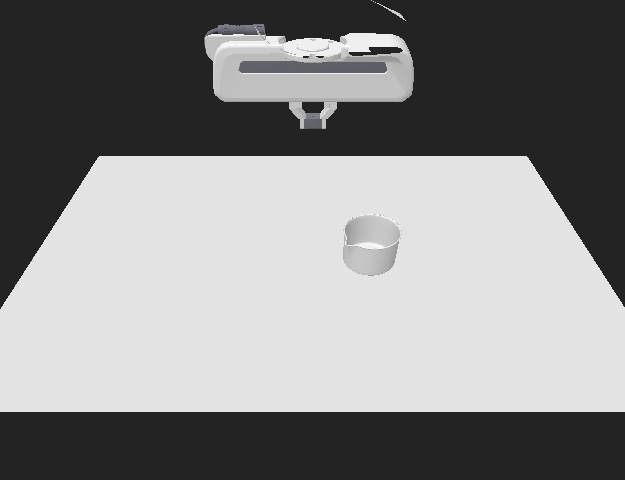
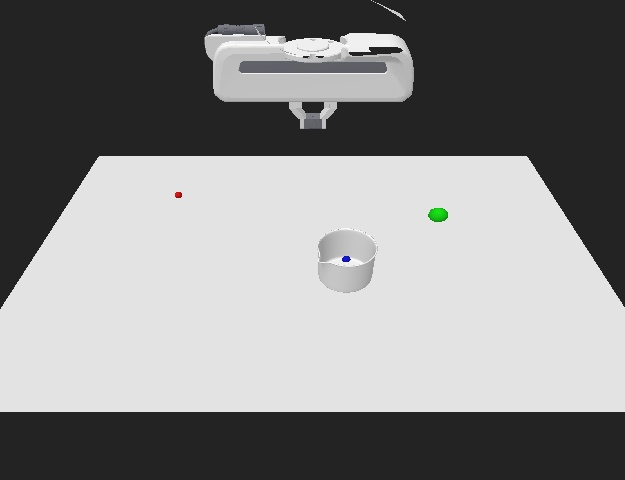
final

Changed region(s): [[0.4864, 0.4375, 0.6384, 0.625], [0.6688, 0.4375, 0.7296, 0.4688]]

diff --git a/Interface.py b/Interface.py
@@ -212,76 +212,108 @@ def manual_control():
     except Exception as e:
         print(f"Error in manual_control: {e}")  
 
-def setup_training_screen(vision: bool = True):
+def setup_training_screen(vision: bool = True, model: str = "", model_loaded=False):
     """
     Setup the screen for training
     vision: bool = True (Set to False to train without FastSAM Observations)
+    subgoal: str (Which subgoal to achieve)
     """
-    def update_screen(timesteps: int, vision: bool):
+    def update_screen(timesteps: int, vision: bool, subgoal: str = "above", model: str = "", model_loaded=False):
         """
         Clears the screen to a loading screen while it trains. Training happens on a separate thread.
         """
         for widget in root.winfo_children():
             widget.destroy()
 
+        
+
         label = tk.Label(root, text="Training...")
         label.pack(pady=10)
 
-        Thread(target=lambda: train(timesteps=timesteps, vision=vision), daemon=True).start()
+        Thread(target=lambda: train(timesteps=timesteps, vision=vision, subgoal=subgoal, model=model, model_loaded=model_loaded), daemon=True).start()
 
         back_button = tk.Button(root, text="Back to Main Menu", command=lambda: setup_initial_screen(restart=True))
         back_button.pack(pady=10)
 
     # def train
+    def timesteps(vision:bool, subgoal:str, model: str = "", model_loaded: bool = False):
+        for widget in root.winfo_children():
+            widget.destroy()
 
+        label = tk.Label(root, text= "Input the number of timesteps to train for:")
+        label.pack(pady=10)
+
+        entry = tk.Entry(root)
+        entry.pack(pady=10)
+
+        submit_button = tk.Button(root, text="Submit", command=lambda: update_screen(timesteps=int(entry.get()), vision=vision, subgoal=subgoal, model=model, model_loaded=model_loaded))
+
+        submit_button.pack(pady=10)
+    
     for widget in root.winfo_children():
         widget.destroy()
 
-    label = tk.Label(root, text= "Input the number of timesteps to train for:")
-    label.pack(pady=10)
+    label = tk.Label(root, text="Choose a subgoal to train for:")
+    label.pack(pady=10, padx=10)
 
-    entry = tk.Entry(root)
-    entry.pack(pady=10)
+    above_button = tk.Button(root, text="Reach above the beaker", command=lambda: timesteps(vision=vision, subgoal="above", model=model, model_loaded=model_loaded))
+    above_button.pack(pady=10)
 
-    submit_button = tk.Button(root, text="Submit", command=lambda: update_screen(timesteps=int(entry.get()), vision=vision))
-    submit_button.pack(pady=10)
+    pregrab_button = tk.Button(root, text="Prepare to grab the beaker", command=lambda: timesteps(vision=vision, subgoal="pregrab", model=model, model_loaded=model_loaded))
+    pregrab_button.pack(pady=10)
 
-def train(timesteps: int, vision: bool, subgoal):
+    grab_button = tk.Button(root, text="Grab the beaker", command=lambda: timesteps(vision=vision, subgoal="grab", model=model, model_loaded=model_loaded))
+    grab_button.pack(pady=10)
+
+    lift_button = tk.Button(root, text="Lift the beaker to goal", command=lambda: timesteps(vision=vision, subgoal="lift", model=model, model_loaded=model_loaded))
+    lift_button.pack(pady=10)
+
+    back_button = tk.Button(root, text="Back to Main Menu", command=lambda: setup_initial_screen(restart=True))
+    back_button.pack(pady=10)
+
+def train(timesteps: int, vision: bool, subgoal: str, model_loaded: bool = False, model: str = ""):
     """
     Trains a DDPG model on the Custom Beaker Grab environment.
     """
 
-    env = gym.make('PandaPickAndPlace-v3', render_mode="human", vision=vision, current_subgoal=subgoal)
+    env = gym.make('PandaPickAndPlace-v3', render_mode="human", vision=vision, current_subgoal=subgoal) 
+    # env = gym.make('PandaReach-v3', render_mode="human")
 
     env = make_vec_env(lambda: env, n_envs=1)
 
     n_actions = env.action_space.shape[-1]
-    action_noise = NormalActionNoise(mean=np.zeros(n_actions), sigma=0.85 * np.ones(n_actions))
+    action_noise = NormalActionNoise(mean=np.zeros(n_actions), sigma=1 * np.ones(n_actions))
 
-    if vision:
-        # Create the DDPG model
-        model = DDPG("MultiInputPolicy", 
-                env, 
-                action_noise=action_noise, 
-                replay_buffer_class=HerReplayBuffer,
-                verbose=1, 
-                batch_size=32,
-                buffer_size=7_000, 
-                learning_rate=0.001, 
-                tensorboard_log=log_dir
-                )
+    if model_loaded == False:
+        if vision:
+            # Create the DDPG model
+            model = DDPG("MultiInputPolicy", 
+                    env, 
+                    action_noise=action_noise, 
+                    replay_buffer_class=HerReplayBuffer,
+                    verbose=1, 
+                    batch_size=32,
+                    buffer_size=7_000, 
+                    learning_rate=0.001, 
+                    tensorboard_log=log_dir
+                    )
+        else:
+            model = DDPG("MultiInputPolicy", 
+                    env, 
+                    action_noise=action_noise, 
+                    replay_buffer_class=HerReplayBuffer,
+                    verbose=1, 
+                    batch_size= 1024,
+                    buffer_size=100_000, 
+                    learning_rate=0.001, 
+                    tensorboard_log=log_dir
+                    )
     else:
-        model = DDPG("MultiInputPolicy", 
-                env, 
-                action_noise=action_noise, 
-                replay_buffer_class=HerReplayBuffer,
-                verbose=1, 
-                batch_size= 512,
-                buffer_size=50_000, 
-                learning_rate=0.001, 
-                tensorboard_log=log_dir
-                )
-    
+        model_name = model
+        print("models/"+model)
+        model = DDPG.load("models/"+model, env=env)
+        print("Loaded", model_name)
+        
     load_tensorboard()
 
     model.learn(total_timesteps=timesteps)
@@ -386,17 +418,39 @@ def chosen_model(model):
     """
     for widget in root.winfo_children():
         widget.destroy()
+    
+    label = tk.Label(root, text="Would you like to test this model or train it?")
+    label.pack(padx=10, pady=10)
 
-    episodes_label = tk.Label(root, text="Input number of episodes to test:")
-    episodes_label.pack(pady=10)
+    test_button = tk.Button(root, text="Test", command=lambda: test_screen(model))
+    test_button.pack(pady=10)
 
-    entry = tk.Entry(root)
-    entry.pack(pady=10)
+    train_button = tk.Button(root, text="Train", command=lambda: check_if_vision(model))
+    train_button.pack(pady=10)
 
-    submit_button = tk.Button(root, text="Submit", command=lambda: test(int(entry.get()), model))
-    submit_button.pack(pady=10)
+    def check_if_vision(model):
+        for widget in root.winfo_children():
+            widget.destroy()
 
-    print(command_queue)
+        vision_button = tk.Button(root, text="With Vision", command=lambda: setup_training_screen(vision=True, model=model, model_loaded=True))
+        vision_button.pack(pady=10)
+
+        non_vision_button = tk.Button(root, text="Without Vision", command=lambda: setup_training_screen(vision=False, model=model, model_loaded=True))
+        non_vision_button.pack(pady=10, padx=10)
+
+
+    def test_screen(model):
+        for widget in root.winfo_children():
+            widget.destroy()
+
+        episodes_label = tk.Label(root, text="Input number of episodes to test:")
+        episodes_label.pack(pady=10)
+
+        entry = tk.Entry(root)
+        entry.pack(pady=10)
+
+        submit_button = tk.Button(root, text="Submit", command=lambda: test(int(entry.get()), model))
+        submit_button.pack(pady=10)
 
     def test(episodes, model):
         """
@@ -481,7 +535,7 @@ def load_tensorboard(port=6006):
         tb = program.TensorBoard()
         tb.configure(argv=[None, '--logdir', log_dir, '--port', str(port)])
         url = tb.launch()
-    webbrowser.open(url, new=0)
+    # webbrowser.open(url, new=0)
 
 # Main Loop
 command_queue = queue.Queue()

diff --git a/visual_robot_project.py b/visual_robot_project.py
@@ -22,11 +22,9 @@ from sb3_contrib.common.wrappers import TimeFeatureWrapper
 from stable_baselines3.common.env_util import make_vec_env
 from stable_baselines3.common.evaluation import evaluate_policy
 
-from Camera_Environment import CameraBeakerEnv
-
 
 ### Uncomment the following to switch to the built-in panda reach environment.
-env = gym.make('PandaPickAndPlace-v3', render_mode="human")
+env = gym.make('PandaPickAndPlace-v3', render_mode="human", vision=False, current_subgoal="grab")
 # env = CameraBeakerEnv(render_mode="human")
 
 model_path_1 = "./trained_models/trained_reach.zip"
@@ -37,23 +35,34 @@ model_path = model_path_1
 log_dir = "./logs/"
 os.makedirs(log_dir, exist_ok=True)
 
-env = make_vec_env(lambda: env, n_envs=1)
+# env = make_vec_env(lambda: env, n_envs=1)
 
 n_actions = env.action_space.shape[-1]
-action_noise = NormalActionNoise(mean=np.zeros(n_actions), sigma=1.1 * np.ones(n_actions))
+action_noise = NormalActionNoise(mean=np.zeros(n_actions), sigma=0.1 * np.ones(n_actions))
 
+rb_kwargs = {'goal_selection_strategy' : 'future',
+             'n_sampled_goal' : 4}
+
+policy_kwargs = {'net_arch' : [512, 512, 512], 
+                 'n_critics' : 2}
+
+env = TimeFeatureWrapper(env)
+
+model = DDPG(policy="MultiInputPolicy", env=env, replay_buffer_class=HerReplayBuffer, verbose=1, 
+             gamma = 0.95, batch_size= 512, buffer_size=100000, replay_buffer_kwargs = rb_kwargs,
+             learning_rate = 1e-3, action_noise = action_noise, policy_kwargs = policy_kwargs, tensorboard_log=log_dir)
 
 # Create the DDPG model
-model = DDPG("MultiInputPolicy", 
-             env, 
-             action_noise=action_noise, 
-             replay_buffer_class=HerReplayBuffer,
-             verbose=1, 
-             batch_size= 512,
-             buffer_size=50_000, 
-             learning_rate=0.001, 
-             tensorboard_log=log_dir
-             )
+# model = DDPG("MultiInputPolicy", 
+#              env, 
+#              action_noise=action_noise, 
+#              replay_buffer_class=HerReplayBuffer,
+#              verbose=1, 
+#              batch_size=2048,
+#              buffer_size=1_000_000, 
+#              learning_rate=0.001, 
+#              tensorboard_log=log_dir
+#              )
 
 # model = DDPG.load(("models/ddpg_model_18_38"), env=env)
 # model.batch_size = 512
@@ -62,7 +71,7 @@ model = DDPG("MultiInputPolicy",
 
 
 
-model.learn(total_timesteps=1_000)
+model.learn(total_timesteps=500_000)
 
 
 # model.save_replay_buffer("ddpg_buffer_"+current_time)
@@ -95,7 +104,7 @@ current_time = current_time[:2]+'_'+current_time[-2:]
 print(current_time)
 
 try:
-    model_name = inputimeout(prompt="Name the model: ", timeout=120)
+    model_name = inputimeout(prompt="Name the model: ", timeout=300)
 except TimeoutOccurred:
     model_name = "DDPG_Model_"+current_time
 
